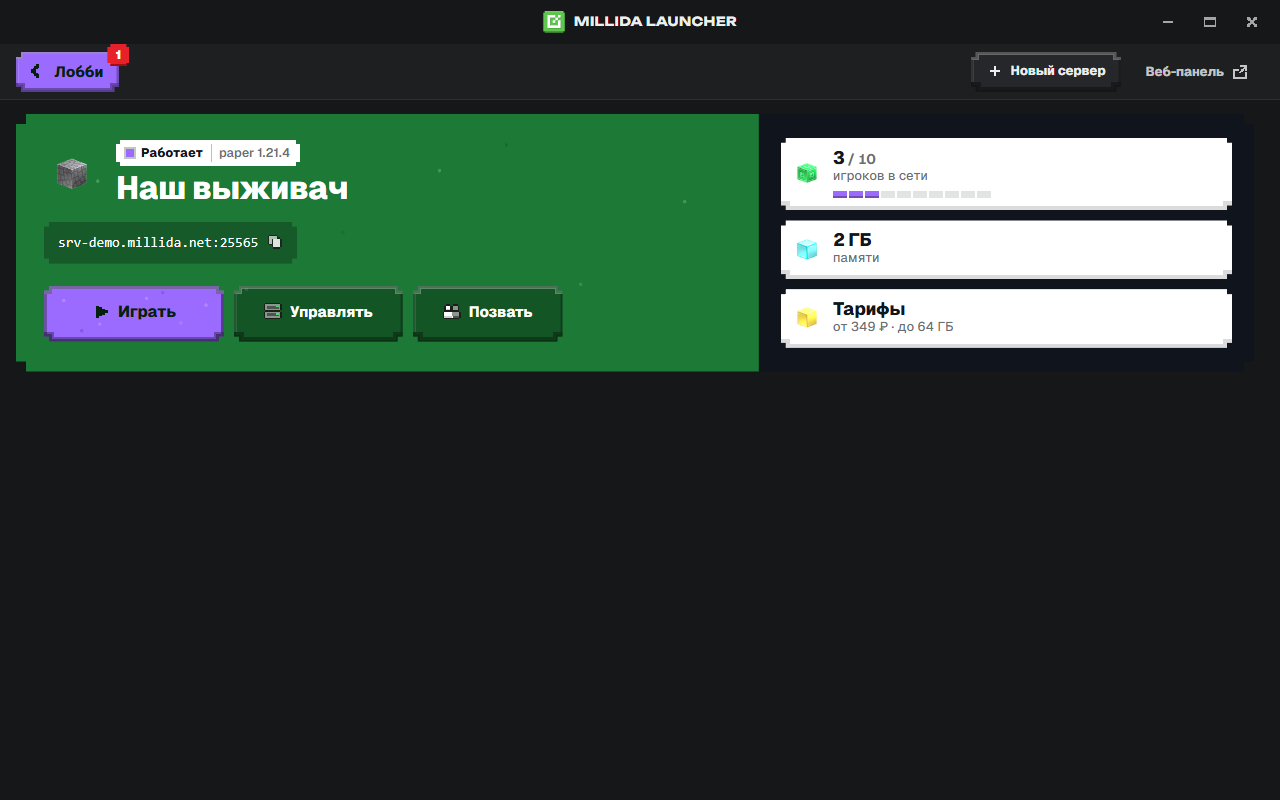
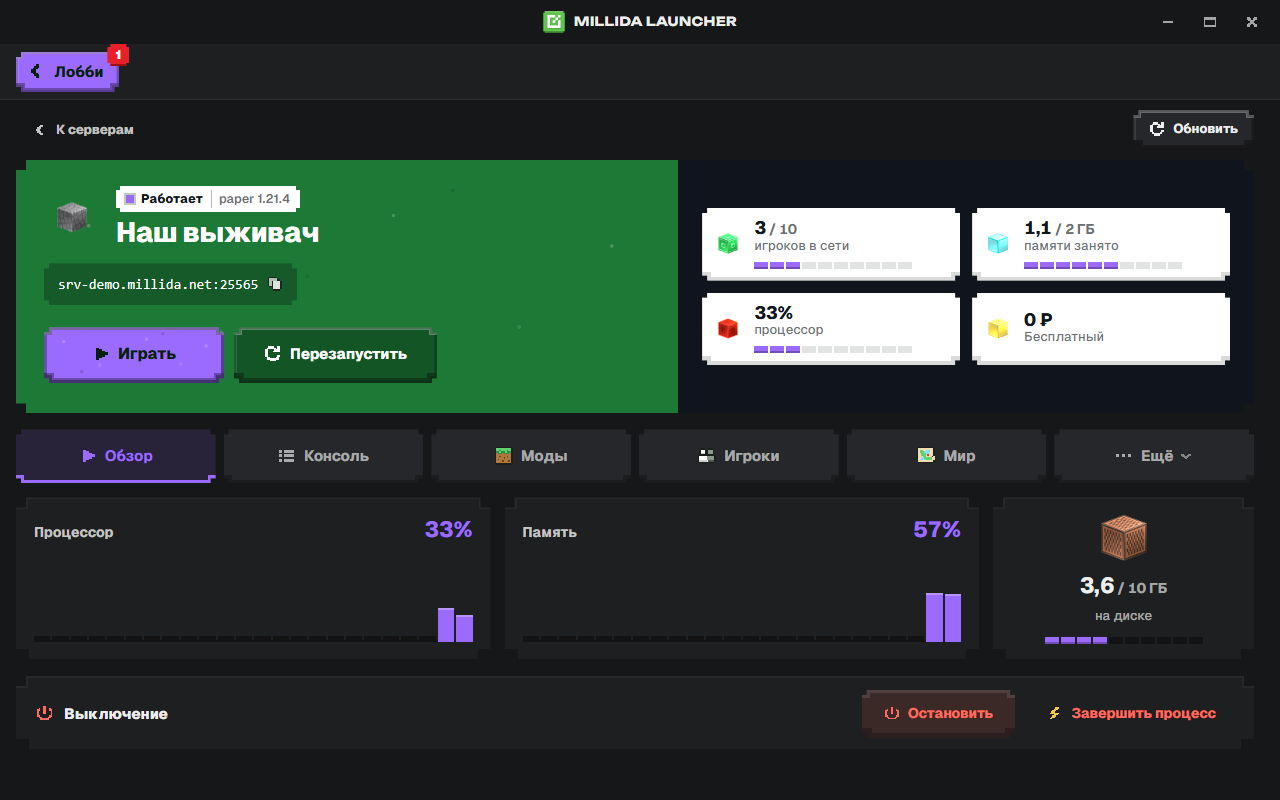
Millida Launcher 2.0.176: обновление файлов
Собрано из 5fa6644.

diff --git a/README.md b/README.md
@@ -3,9 +3,9 @@
 </p>
 
 <p align="center">
-  <a href="https://millida.net/launcher/dl/windows"><img src=".github/readme/dl-windows.png" width="300" alt="Скачать для Windows"></a>
-  <a href="https://millida.net/launcher/dl/macos"><img src=".github/readme/dl-macos.png" width="300" alt="Скачать для macOS"></a>
-  <a href="https://millida.net/launcher/dl/linux"><img src=".github/readme/dl-linux.png" width="300" alt="Скачать для Linux"></a>
+  <a href="https://millida.net/launcher/dl/windows"><img src=".github/readme/dl-windows.png" width="32%" alt="Скачать для Windows"></a>
+  <a href="https://millida.net/launcher/dl/macos"><img src=".github/readme/dl-macos.png" width="32%" alt="Скачать для macOS"></a>
+  <a href="https://millida.net/launcher/dl/linux"><img src=".github/readme/dl-linux.png" width="32%" alt="Скачать для Linux"></a>
 </p>
 
 <p align="center">
